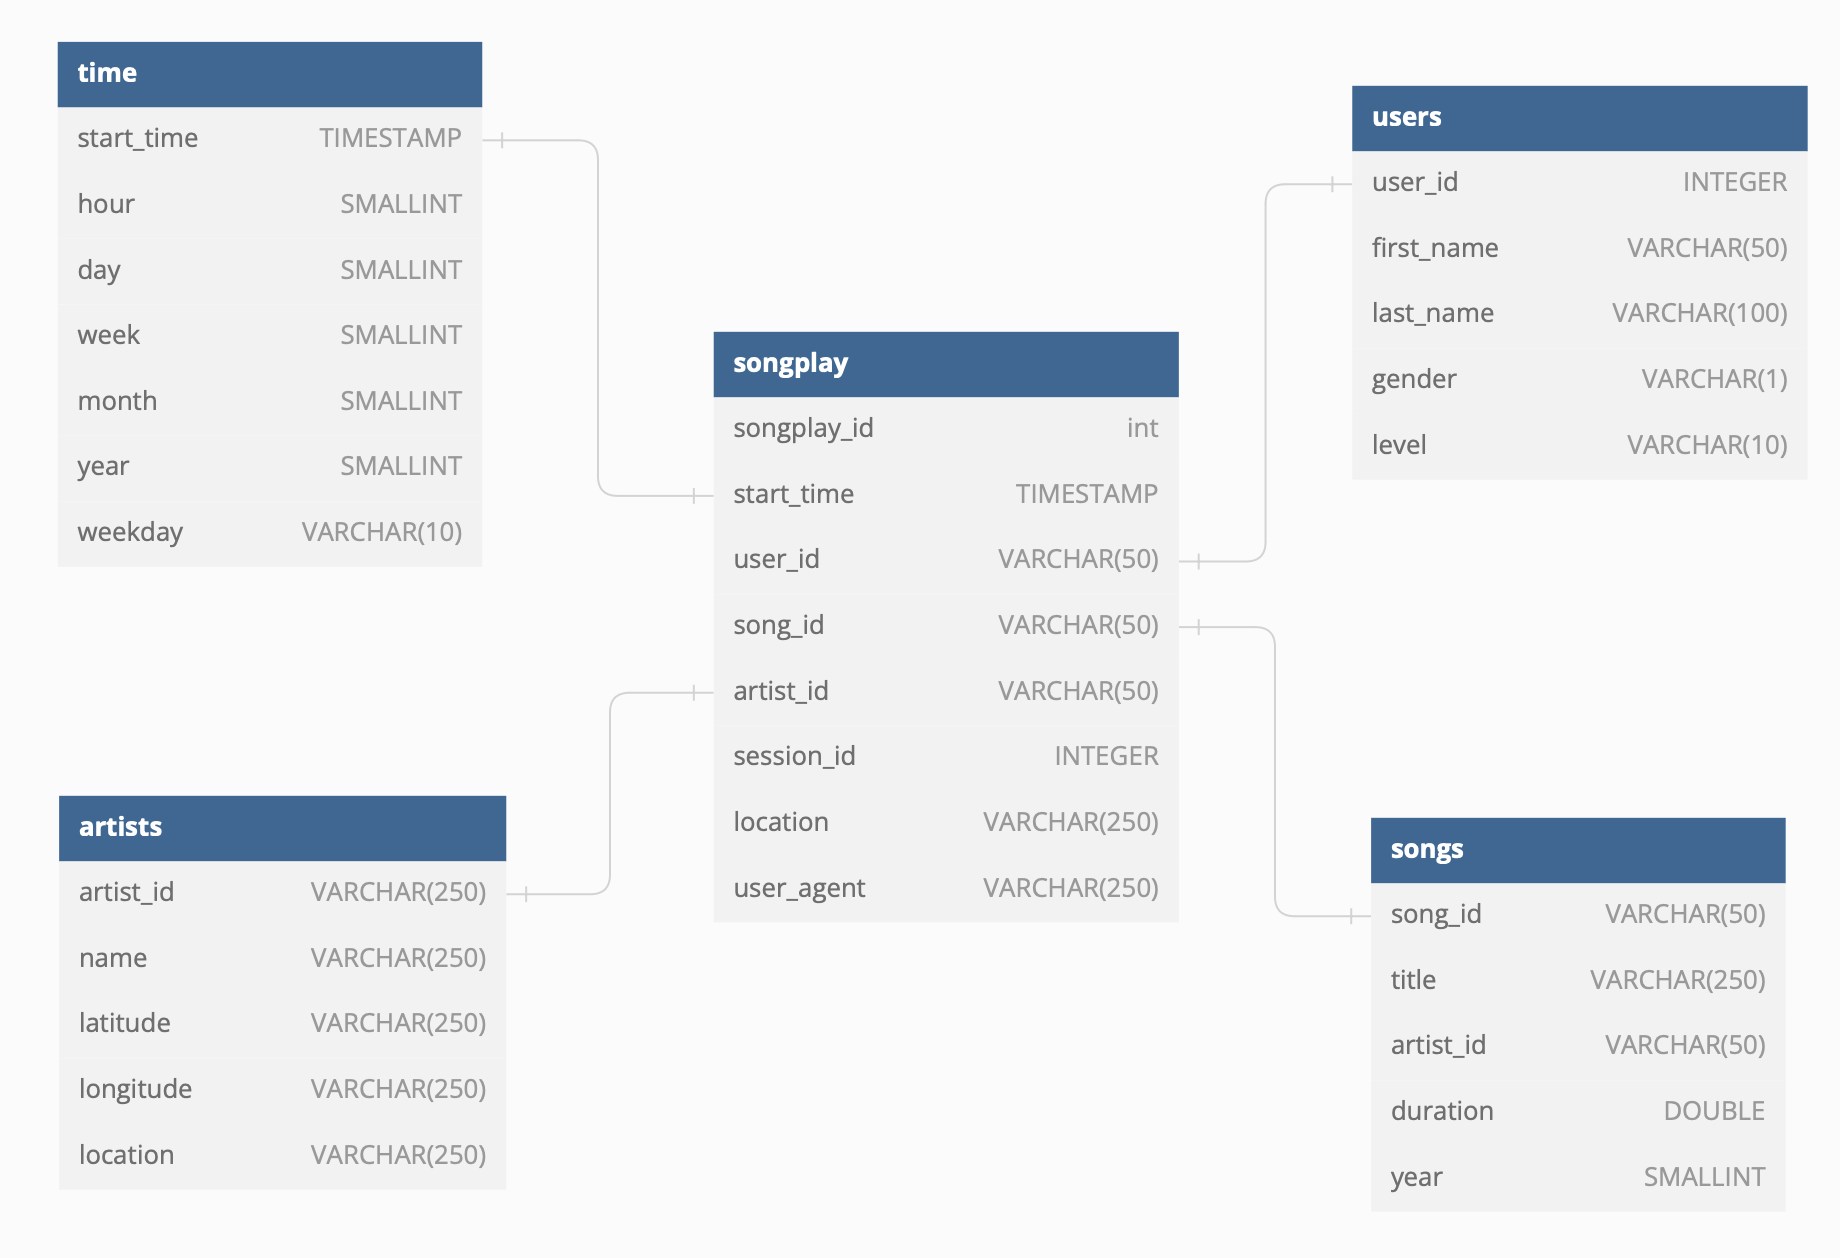
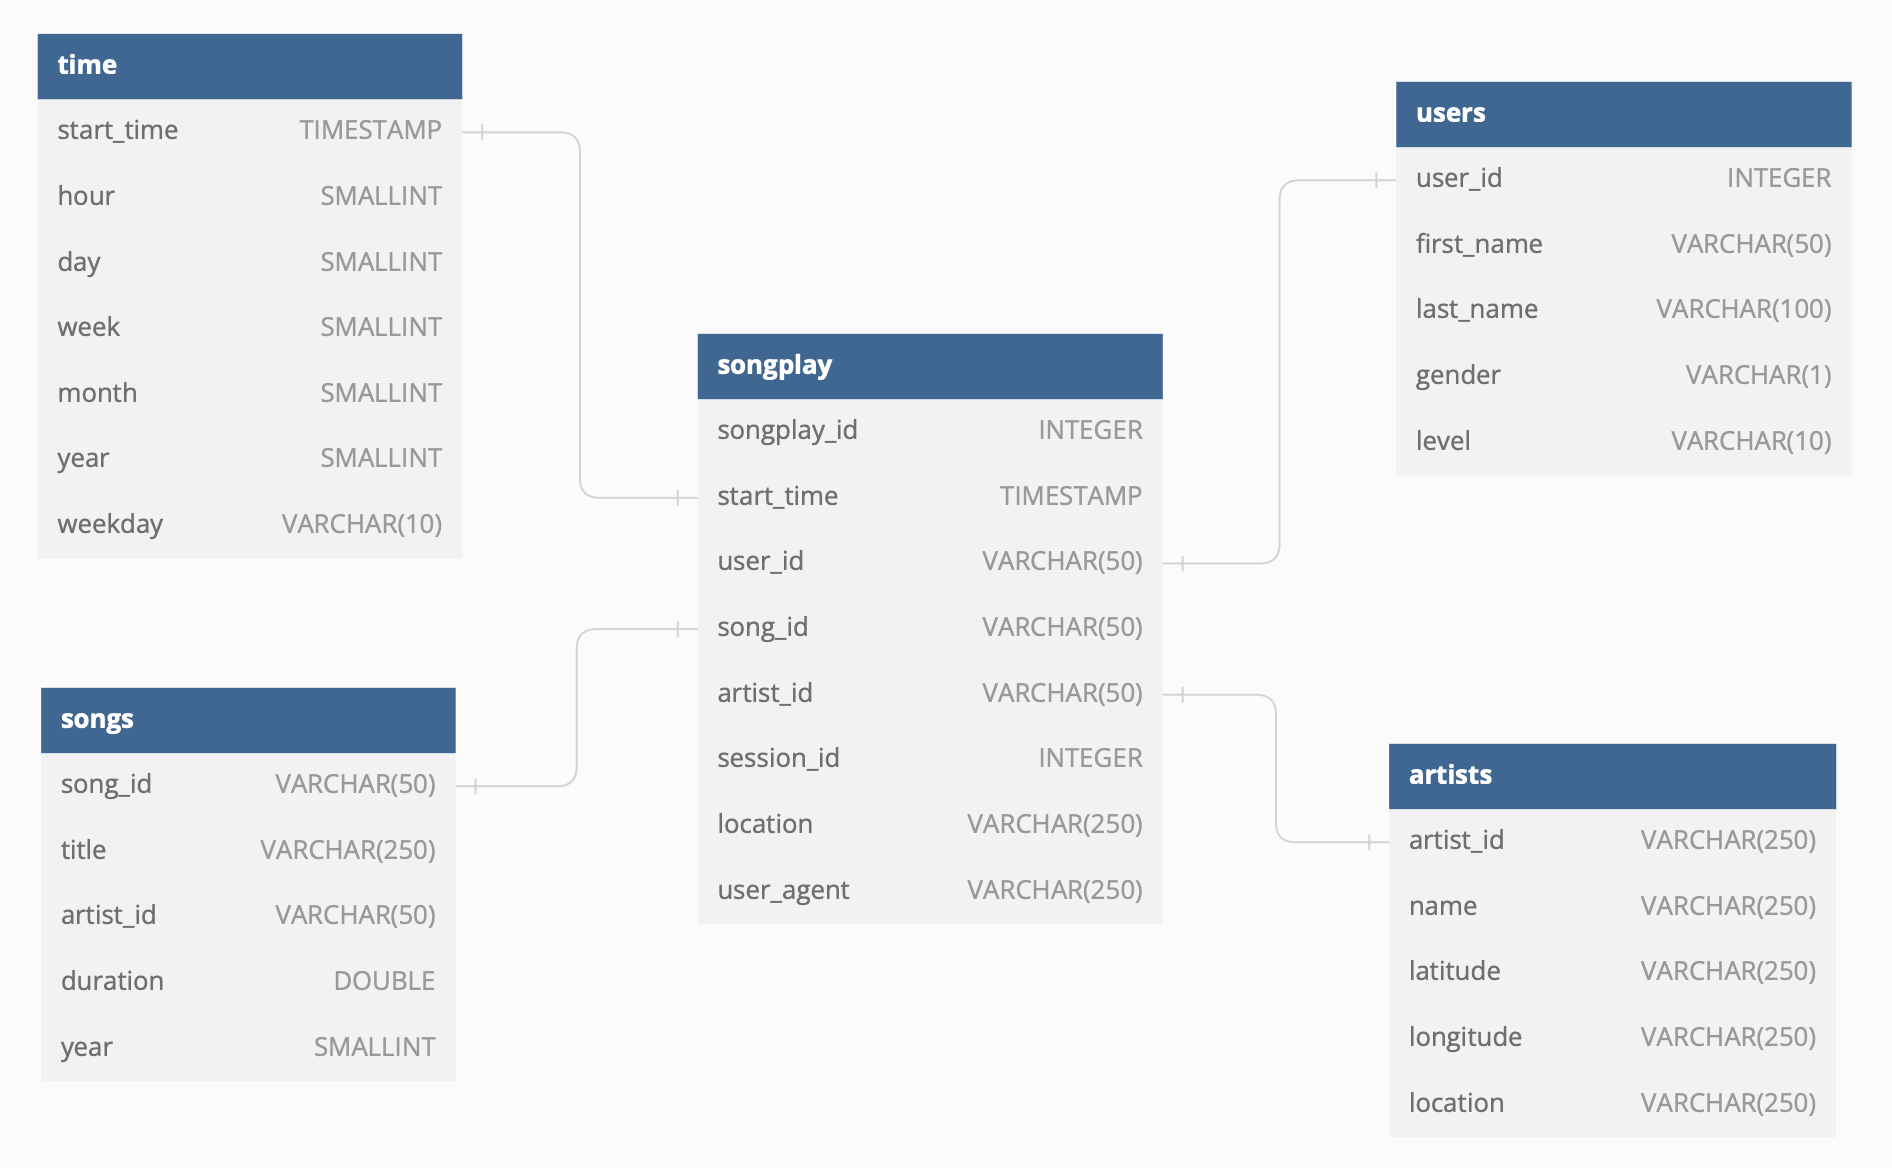
fix: improve text and schema data types

diff --git a/Project 2 - Data Warehouse/README.md b/Project 2 - Data Warehouse/README.md
@@ -25,18 +25,18 @@ artist_id and duration), respectively.
 ### About the ELT pipeline
 
 The pipeline extracts data from an S3 bucket containing all events and songs raw data. The data is then loaded to 
-`staging_events and staging_songs` staging tables on Redshift using a SQL `COPY` statement. Finally, the data is
-transformed according to the final tables star schema using SQL statements.
+`staging_events and staging_songs` staging tables on Redshift using a SQL `COPY` statement. Finally, data is transformed
+according to the final tables star schema using SQL statements.
 
-The ELT method was chosen over ETL in order to leverage our operation speed using SQL language to transform data that
-was already loaded into the Warehouse, also avoiding expenses by executing AWS Lambda functions to transform the data
-before loading it to Redshift.
+The ELT method was chosen over ETL in order to leverage our operation speed using SQL language to transform data 
+previously loaded into the Warehouse while also reducing expenses by avoiding executing AWS Lambda functions to 
+transform data before loading it to Redshift.
 
 # Quick Start
 
 ## Install
 
-Before deploying the resources or executing ETL jobs, you need to install `boto3`, `pandas` and `psycopg2`.
+Before deploying the resources or executing ETL jobs you need to install `boto3`, `pandas` and `psycopg2`.
 
 ```bash
 pip install boto3, pandas, psycopg2
@@ -74,5 +74,5 @@ python ./etl.py
 
 You can find and execute sample SQL queries on [sample queries.ipynb](sample_queries.ipynb). Queries on the file are
 able to answer two business questions: 
-- What were the top 10 songs played in 2018?
-- What were the top 10 artists played in 2018?
+- What were the top 10 songs played in 2018;
+- What were the top 10 artists played in 2018.
